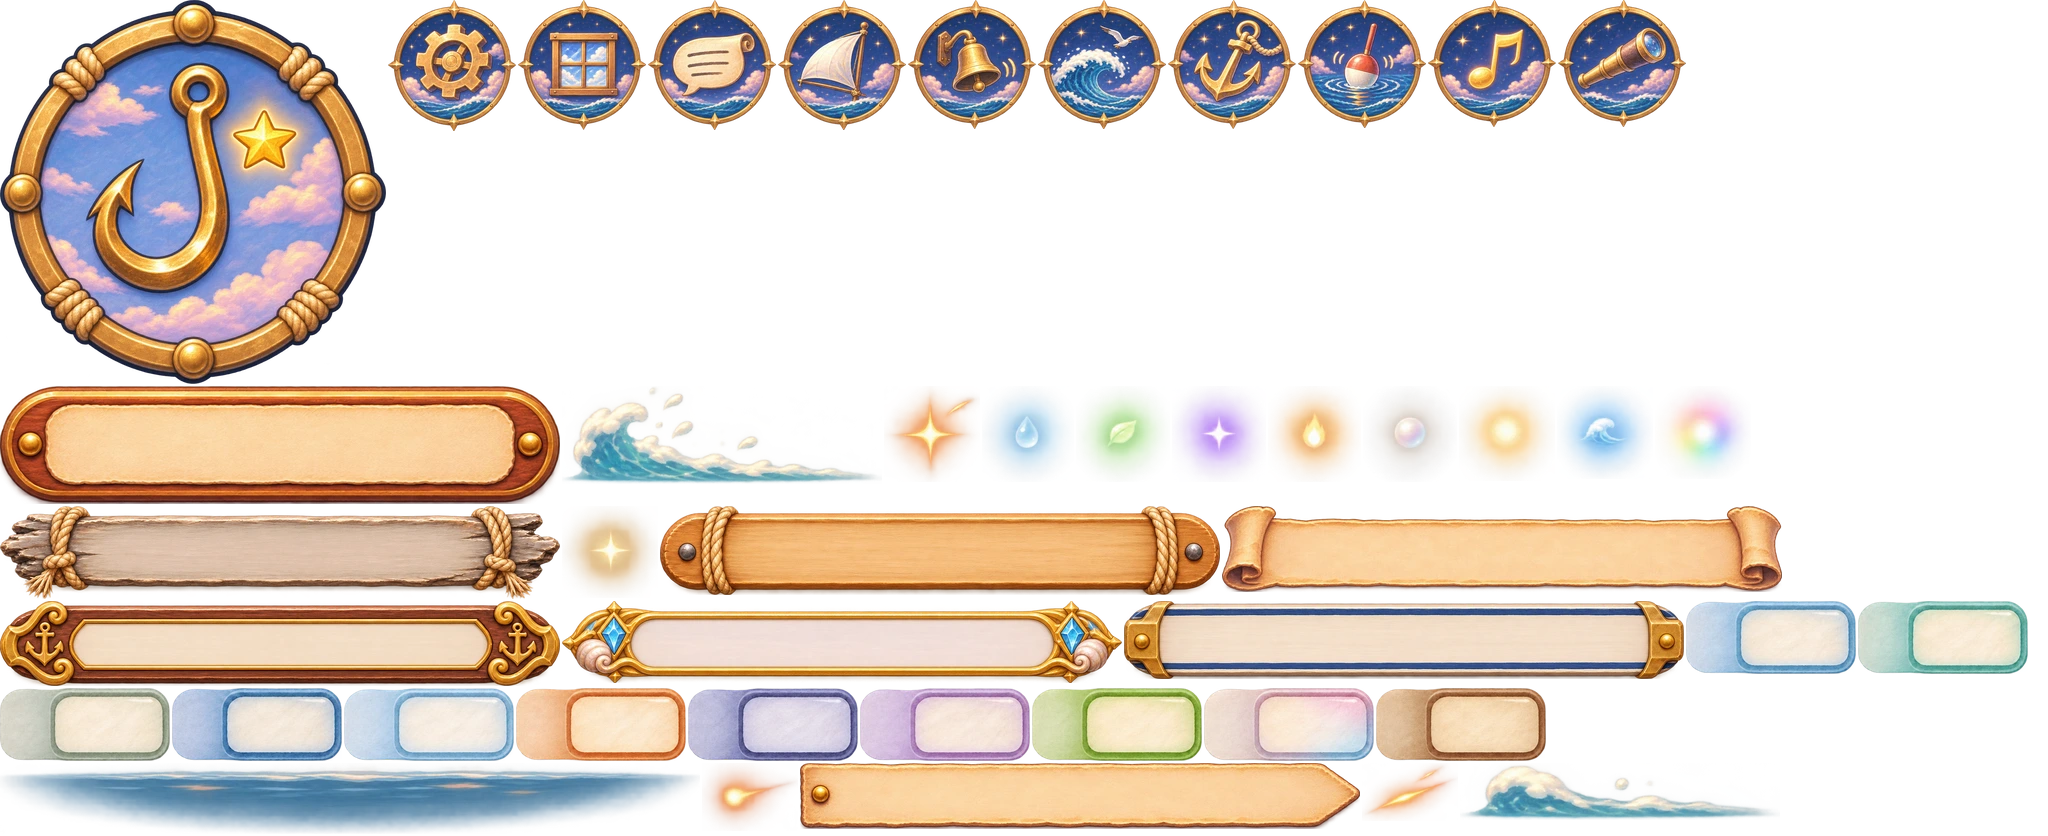
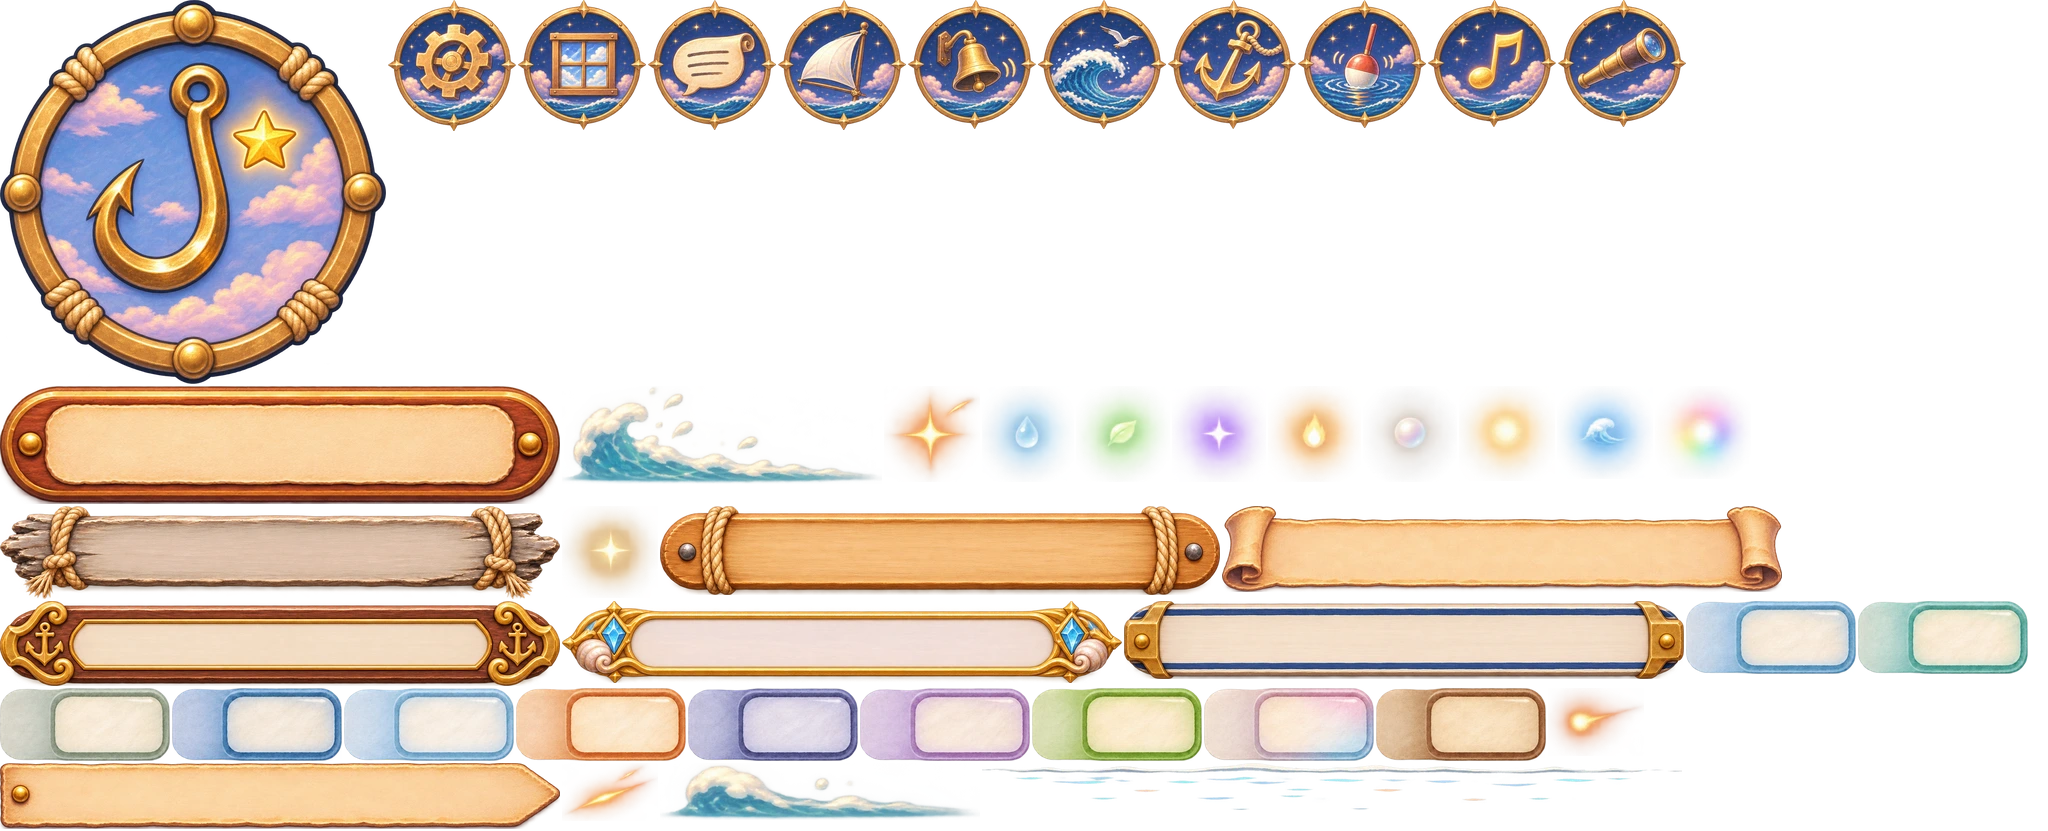
매어 둔 배의 잔물결을 새 그림으로 (#407): 선이 또렷한 물마루와 짧은 물결 획
Claude-Session: https://claude.ai/code/session_0142yqQtSepe3ngremP8BMYq

diff --git a/src/harbor.js b/src/harbor.js
@@ -308,8 +308,7 @@ function moored(ctx, b, x, y, w, h, t) {
   ctx.drawImage(c, x, y, w, h);
   // 배와 물이 만나는 자리의 잔물결 (그림: h_boat_foam). 배와는 조금 다른 박자로 오르내리고 좌우로 살짝 밀린다
   if (hasSprite('h_boat_foam')) { const f = sprite('h_boat_foam'), fw = w * 1.06, fh = fw * f.h / f.w;
-    ctx.save(); const fx = x - w * 0.03 + Math.sin(t * 0.9) * 1.2, fy = wl - fh * 0.42 + Math.sin(t * 1.9 + 1) * 0.6;
-    ctx.drawImage(f.img, fx, fy, fw, fh * 1.1); ctx.globalAlpha = 0.35; ctx.drawImage(f.img, fx + 1.5, fy + 0.4, fw, fh * 1.1); ctx.restore(); }      // 옅은 그림이라 한 번 더 옅게 겹친다 (더 진하면 배 밑이 안개에 덮인 것처럼 보인다)
+    ctx.save(); ctx.globalAlpha = 0.95; ctx.drawImage(f.img, x - w * 0.03 + Math.sin(t * 0.9) * 1.2, wl - fh * 0.3 + Math.sin(t * 1.9 + 1) * 0.6, fw, fh); ctx.restore(); }      // 그림 맨 위의 흰 물마루 선이 배와 물이 닿는 자리에 온다
 }
 
 const EN_SHORT = { market: 'Market', tackle: 'Tackle', yard: 'Shipyard', tailor: 'Tailor', guild: 'Guild', hall: 'Hall' };

diff --git a/tools/slice_set.py b/tools/slice_set.py
@@ -66,8 +66,8 @@ if (RAW / 'h_signs.png').exists():      # 항구 건물의 이름판: 마을 겉
     for i, im in enumerate(rows_of('h_signs', [1, 1, 1, 1, 1], gap=14, th=120)): items.append((f'h_sign_{i + 1}', fit(im, 560)))
 if (RAW / 'ui_notes.png').exists():     # 글 뒤에 까는 판: 양피지 띠 · 의뢰 쪽지 · 작은 누름 판
     for n, im in zip(['ui_note', 'ui_tag', 'ui_chip'], rows_of('ui_notes', [1, 1, 1], gap=14, th=120)): items.append((n, fit(im, 560)))
-if (RAW / 'h_boat_foam.png').exists():  # 매어 둔 배가 물과 만나는 자리의 잔물결 띠
-    a = np.array(Image.open(RAW / 'h_boat_foam.png').convert('RGBA')); ys, xs = np.nonzero(a[..., 3] > 10)
+if (RAW / 'h_boat_foam.png').exists():  # 매어 둔 배가 물과 만나는 자리의 잔물결 (2 = 선이 또렷하게 다시 그린 것)
+    a = np.array(Image.open(RAW / ('h_boat_foam2.png' if (RAW / 'h_boat_foam2.png').exists() else 'h_boat_foam.png')).convert('RGBA')); ys, xs = np.nonzero(a[..., 3] > 40)
     items.append(('h_boat_foam', fit(Image.fromarray(a[ys.min():ys.max() + 1, xs.min():xs.max() + 1]), 700)))
 pack(items, 'ui_set.webp', manifest)
 

diff --git a/ASSET_QUEUE.md b/ASSET_QUEUE.md
@@ -426,4 +426,4 @@
 | 404 | `ui_notes` | 글 뒤에 까는 판 3개 (글자 없음, 가운데를 늘려 쓴다): 안내글용 양피지 띠 · 의뢰 쪽지 · 작은 누름 판 | DONE | 통과 |
 | 405 | `h_boats2b` | 항구에 매어 둔 내 배 8단계에서 뱃머리의 밧줄만 지우기 (나머지는 그대로) | DONE | 통과 |
 | 406 | `h_boat_9b` | 태초의 차림 배(항구)에서 뱃머리의 밧줄만 지우기 (나머지는 그대로) | DONE | 통과 |
-| 407 | `h_boat_foam2` | 매어 둔 배의 잔물결 띠 다시: 뿌연 띠가 아니라 선이 또렷한 잔물결 (흰 물마루 선 몇 줄과 짧은 물결 획) | TODO | |
+| 407 | `h_boat_foam2` | 매어 둔 배의 잔물결 띠 다시: 뿌연 띠가 아니라 선이 또렷한 잔물결 (흰 물마루 선 몇 줄과 짧은 물결 획) | DONE | 통과 |
